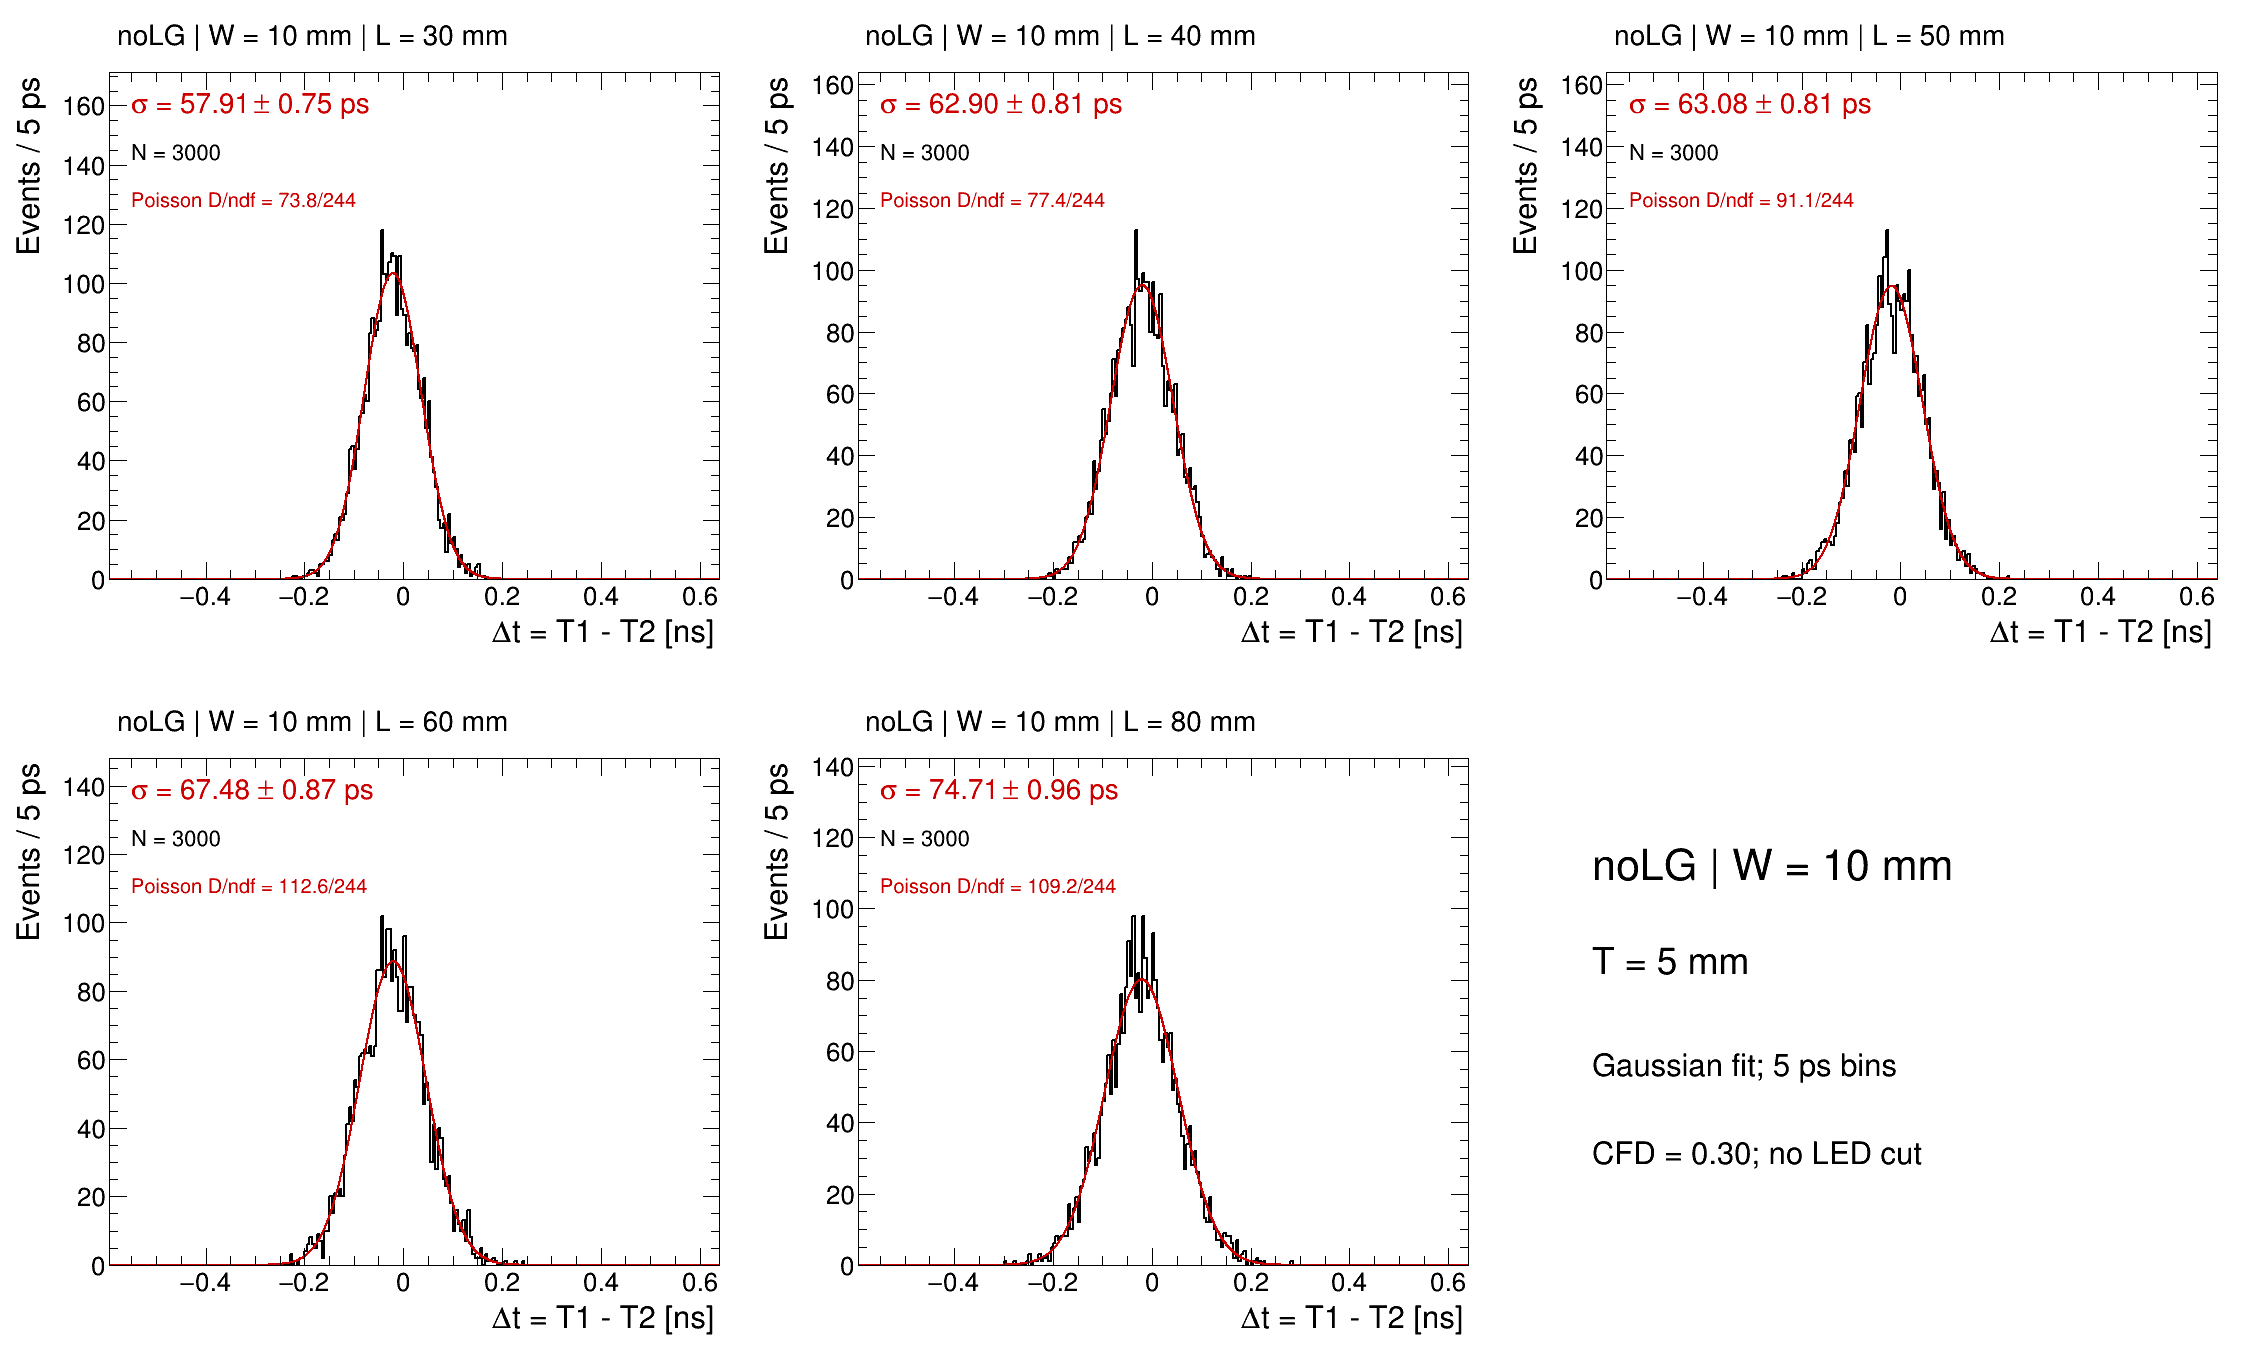
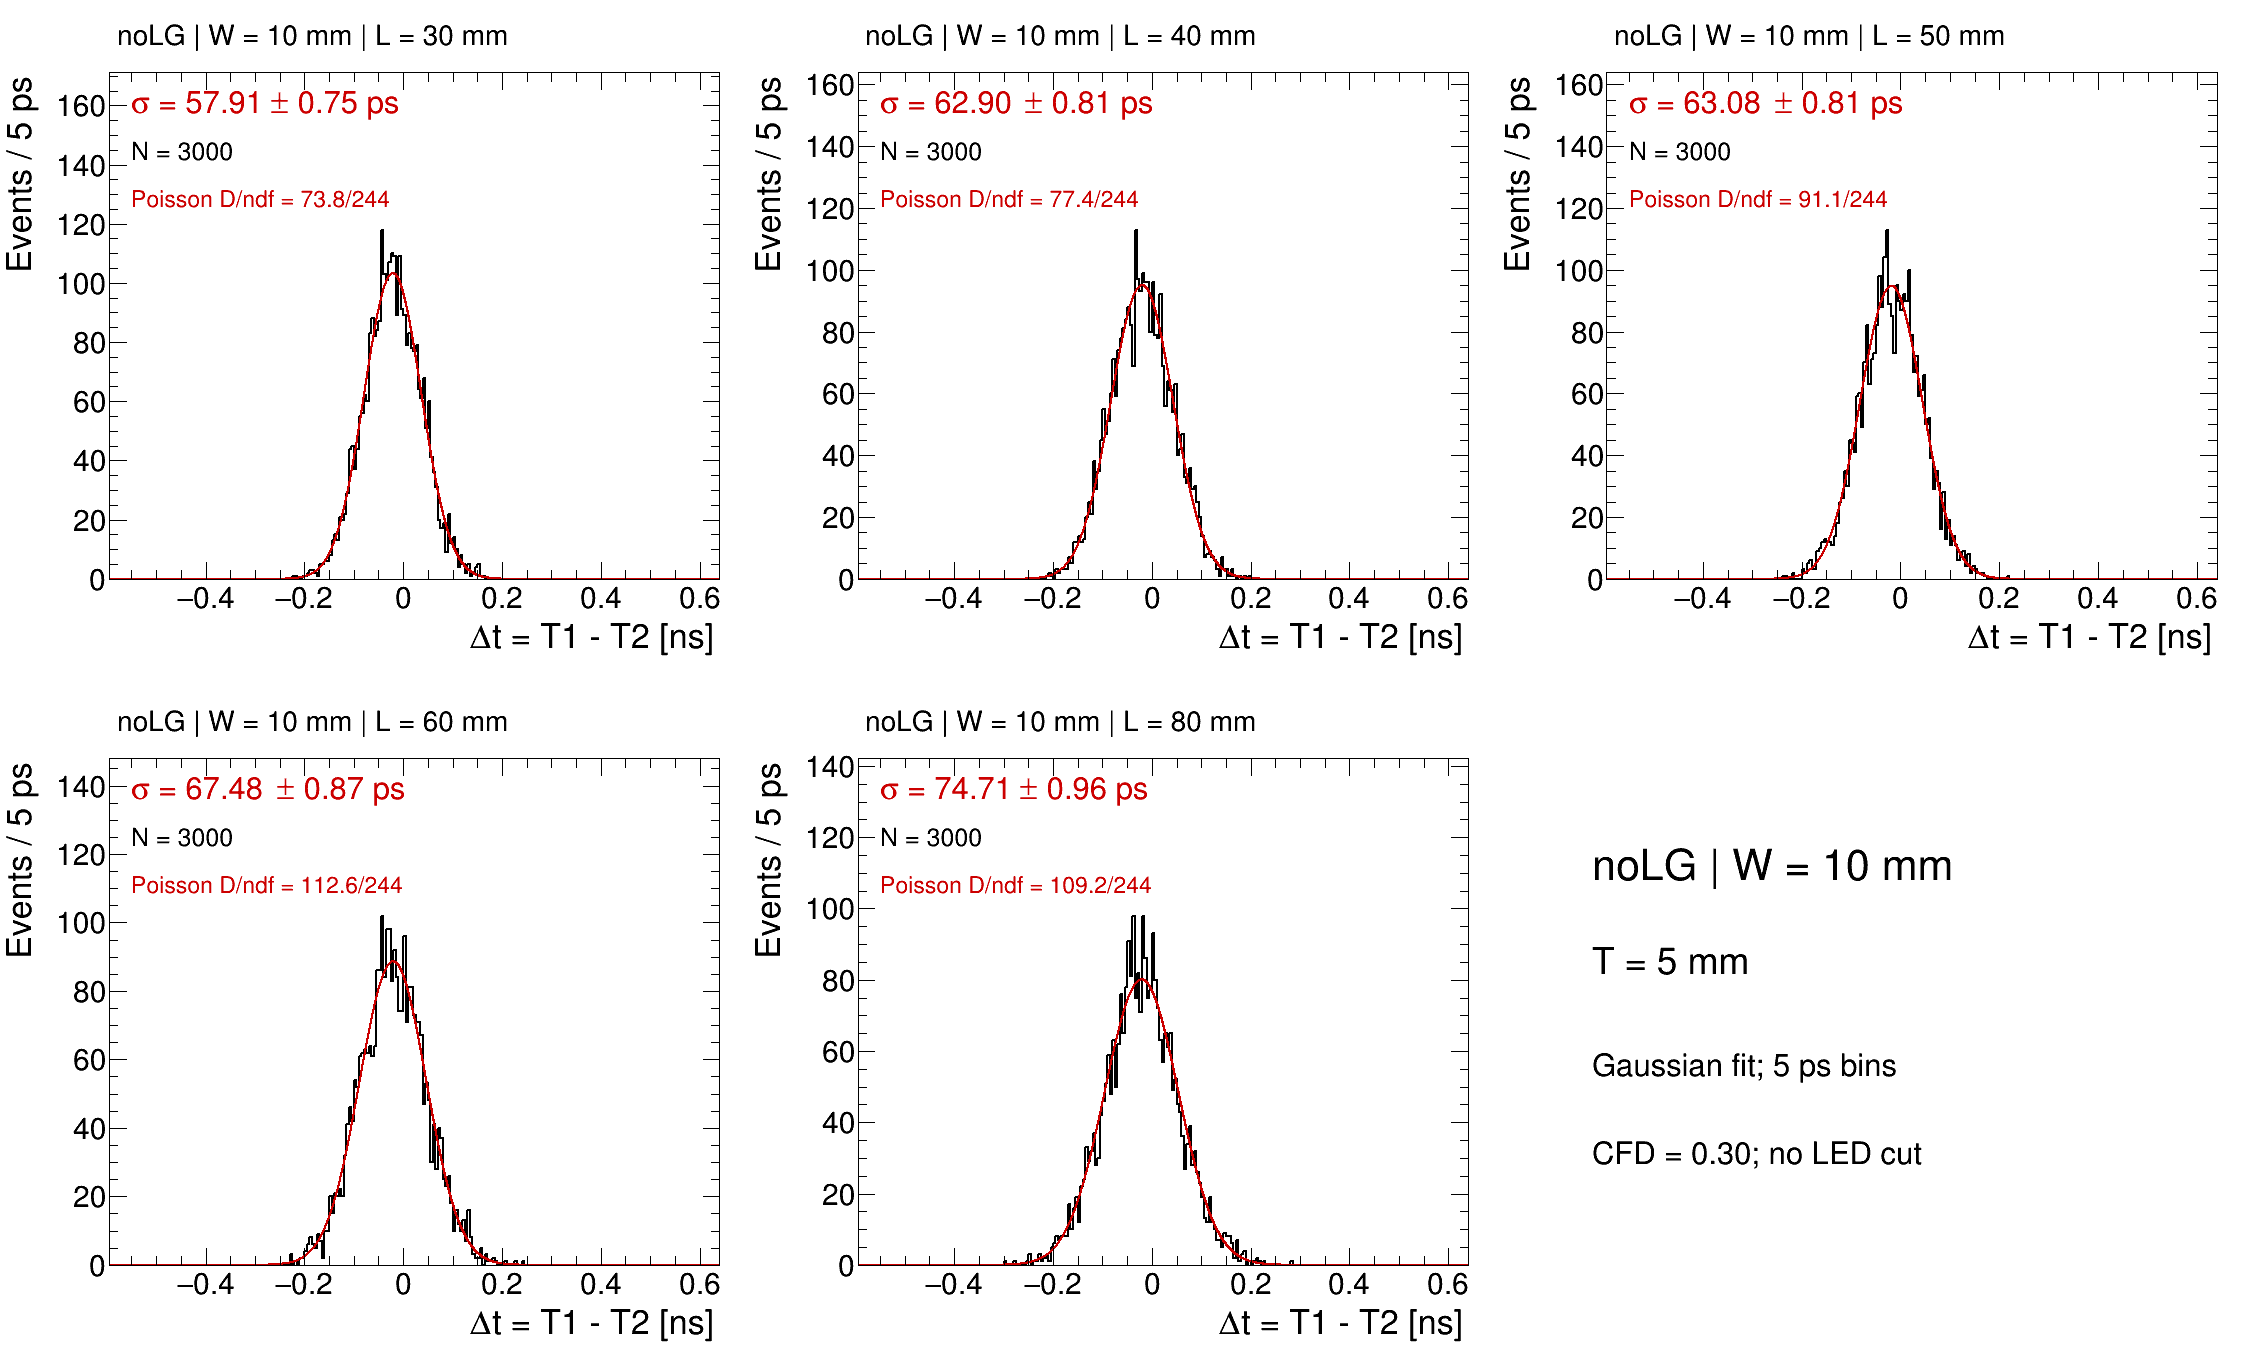
Improve readability of length and thickness scan figures
Enlarge labels and error bars, use shared legends and distinct line styles,
and show photon fractions as percentages. Retain all data and fit settings.

Validation: regenerated 12 PNGs; all 27 fit results, photon statistics and
exception sensitivity exactly unchanged; saved ROOT curves and hashes checked.

diff --git a/analysis/tools/length_thickness_trends.py b/analysis/tools/length_thickness_trends.py
@@ -85,6 +85,10 @@ def plot(out):
     import matplotlib
     matplotlib.use('Agg')
     import matplotlib.pyplot as plt
+    from matplotlib.ticker import PercentFormatter
+    plt.rcParams.update({'font.size':13, 'axes.labelsize':14, 'axes.titlesize':16,
+                         'xtick.labelsize':12, 'ytick.labelsize':12, 'legend.fontsize':12,
+                         'axes.spines.top':False, 'axes.spines.right':False})
     from collections import Counter
     ROOT.gROOT.SetBatch(True)
     ROOT.gStyle.SetOptStat(0)
@@ -181,6 +185,7 @@ def plot(out):
         print('FIT',tag,len(v),round(row['sigma_ps'],3),flush=True)
     groups=[('nolg',10),('lg',10),('lg',40)]
     colors=['#0072B2','#009E73','#D55E00'];markers=['o','s','^']
+    styles=['-','--','-.']
     label=lambda m,w:('noLG' if m=='nolg' else 'LG')+f' | W = {w} mm'
     def scan_rows(axis,mode,width):
         return sorted([r for r in summaries if r['mode']==mode and r['width_mm']==width
@@ -192,7 +197,7 @@ def plot(out):
         unit='L' if axis=='length' else 'T'
         fixed='T = 5 mm' if axis=='length' else 'L = 60 mm'
         ticks=[30,40,50,60,80] if axis=='length' else [2,3,5,7,10]
-        xlabel=f'Scintillator {axis} {unit} [mm]'
+        xlabel=f'Tile {axis} {unit} [mm]'
         for mode,width in groups:
             c=ROOT.TCanvas(f'dt_{axis}_{mode}_w{width}','',2250,1400);keep.append(c);c.Divide(3,2,.003,.004)
             rr=scan_rows(axis,mode,width)
@@ -202,40 +207,45 @@ def plot(out):
                 draw=h.Clone('draw_'+pad.GetName());draw.SetDirectory(0);keep.append(draw)
                 draw.SetLineColor(ROOT.kBlack);draw.SetLineWidth(2);draw.SetMinimum(0);draw.SetMaximum(h.GetMaximum()*1.45)
                 draw.GetXaxis().SetTitle('#Deltat = T1 - T2 [ns]');draw.GetYaxis().SetTitle('Events / 5 ps')
-                for ax in [draw.GetXaxis(),draw.GetYaxis()]:ax.SetLabelSize(.042);ax.SetTitleSize(.05)
+                for ax in [draw.GetXaxis(),draw.GetYaxis()]:ax.SetLabelSize(.048);ax.SetTitleSize(.055)
                 draw.GetYaxis().SetTitleOffset(1.35);draw.Draw('HIST');curve.Draw('L SAME')
                 text(.15,.94,f'{label(mode,width)} | {unit} = {r[axis+"_mm"]} mm',.045)
-                text(.17,.84,f'#sigma = {r["sigma_ps"]:.2f} #pm {r["sigma_error_ps"]:.2f} ps',.045,ROOT.kRed+1)
-                text(.17,.77,f'N = {r["valid_pairs"]}',.036)
-                text(.17,.70,f'Poisson D/ndf = {r["poisson_deviance"]:.1f}/{r["ndf"]}',.032,ROOT.kRed+1)
+                text(.17,.84,f'#sigma = {r["sigma_ps"]:.2f} #pm {r["sigma_error_ps"]:.2f} ps',.050,ROOT.kRed+1)
+                text(.17,.77,f'N = {r["valid_pairs"]}',.040)
+                text(.17,.70,f'Poisson D/ndf = {r["poisson_deviance"]:.1f}/{r["ndf"]}',.037,ROOT.kRed+1)
                 pad.RedrawAxis()
             c.cd(6);text(.12,.72,label(mode,width),.07);text(.12,.58,fixed,.06)
             text(.12,.43,'Gaussian fit; 5 ps bins',.05);text(.12,.30,'CFD = 0.30; no LED cut',.05)
             c.SaveAs(str(plots/f'dt_{axis}_{mode}_w{width}.png'));archive.cd();c.Write()
-        fig,axs=plt.subplots(1,2,figsize=(14,5.5))
-        for (m,w),color,marker in zip(groups,colors,markers):
+        fig,axs=plt.subplots(1,2,figsize=(13,5.8))
+        for (m,w),color,marker,style in zip(groups,colors,markers,styles):
             rr=scan_rows(axis,m,w);xx=[r[axis+'_mm'] for r in rr]
             for ax,key,err in [(axs[0],'sigma_ps','sigma_error_ps'),(axs[1],'detected_mean','detected_sem')]:
-                ax.errorbar(xx,[r[key] for r in rr],yerr=[r[err] for r in rr],color=color,marker=marker,lw=2,ms=7,capsize=4,label=label(m,w))
-        for ax in axs:ax.set_xlabel(xlabel);ax.set_xticks(ticks);ax.grid(alpha=.25);ax.legend(fontsize=10)
-        axs[0].set_ylabel(r'Gaussian fit $\sigma(\Delta t)$ [ps]')
-        axs[1].set_ylabel('Mean detected photons / event (T1 + T2)')
+                ax.errorbar(xx,[r[key] for r in rr],yerr=[r[err] for r in rr],color=color,marker=marker,linestyle=style,lw=2.3,ms=8,capsize=5,capthick=1.6,elinewidth=1.6,label=label(m,w))
+        for ax in axs:ax.set_xlabel(xlabel);ax.set_xticks(ticks);ax.grid(alpha=.22)
+        axs[0].set_ylabel(r'Gaussian $\sigma(\Delta t)$ [ps]')
+        axs[1].set_ylabel('Detected photons / event\n(T1 + T2)')
         axs[0].set_title('Pair timing');axs[1].set_title('Detected photons')
-        fig.suptitle(f'Tile-{axis} dependence | {fixed}',fontsize=17)
-        fig.text(.08,.025,'3000 events / condition | timing: fit SE; photon count: SEM',fontsize=10)
-        fig.tight_layout(rect=[0,.065,1,.95]);fig.savefig(plots/f'sigma_and_detected_vs_{axis}.png',dpi=180);plt.close(fig)
-        fig,axs=plt.subplots(1,2,figsize=(14,5.5))
-        for (m,w),color,marker in zip(groups,colors,markers):
+        fig.suptitle(f'Tile-{axis} dependence | {fixed}',fontsize=19,y=.98)
+        handles,labels=axs[0].get_legend_handles_labels()
+        fig.legend(handles,labels,loc='upper center',bbox_to_anchor=(.5,.91),ncol=3,frameon=False)
+        fig.text(.5,.018,'3000 events / condition  |  σ: fit SE  |  photon count: SEM',fontsize=11,ha='center')
+        fig.tight_layout(rect=[0,.065,1,.84],w_pad=3);fig.savefig(plots/f'sigma_and_detected_vs_{axis}.png',dpi=180);plt.close(fig)
+        fig,axs=plt.subplots(1,2,figsize=(13,5.8))
+        for (m,w),color,marker,style in zip(groups,colors,markers,styles):
             rr=scan_rows(axis,m,w);xx=[r[axis+'_mm'] for r in rr]
             for ax,key,err in [(axs[0],'generated_mean','generated_sem'),(axs[1],'collection_fraction','collection_fraction_sem')]:
-                ax.errorbar(xx,[r[key] for r in rr],yerr=[r[err] for r in rr],color=color,marker=marker,lw=2,ms=7,capsize=4,label=label(m,w))
-        for ax in axs:ax.set_xlabel(xlabel);ax.set_xticks(ticks);ax.grid(alpha=.25);ax.legend(fontsize=10)
-        axs[0].set_ylabel('Mean generated optical photons / event')
-        axs[1].set_ylabel('Detected / generated photons (T1 + T2)')
-        fig.suptitle(f'Photon yield and collection | {fixed}',fontsize=17)
-        fig.tight_layout(rect=[0,0,1,.95]);fig.savefig(plots/f'photon_yield_vs_{axis}.png',dpi=180);plt.close(fig)
+                ax.errorbar(xx,[r[key] for r in rr],yerr=[r[err] for r in rr],color=color,marker=marker,linestyle=style,lw=2.3,ms=8,capsize=5,capthick=1.6,elinewidth=1.6,label=label(m,w))
+        for ax in axs:ax.set_xlabel(xlabel);ax.set_xticks(ticks);ax.grid(alpha=.22)
+        axs[0].set_ylabel('Generated photons / event')
+        axs[1].set_ylabel('Detected / generated photons')
+        axs[1].yaxis.set_major_formatter(PercentFormatter(1))
+        fig.suptitle(f'Photon yield and collection | {fixed}',fontsize=19,y=.98)
+        handles,labels=axs[0].get_legend_handles_labels()
+        fig.legend(handles,labels,loc='upper center',bbox_to_anchor=(.5,.91),ncol=3,frameon=False)
+        fig.tight_layout(rect=[0,0,1,.84],w_pad=3);fig.savefig(plots/f'photon_yield_vs_{axis}.png',dpi=180);plt.close(fig)
         categories=[('detected','Detected','#2ca02c'),('qe_reject','QE reject','#98df8a'),('absorb_scint','Scint. absorption','#ff7f0e'),('absorb_lg','LG bulk','#1f77b4'),('absorb_lg_surface','LG surface','#17becf'),('absorb_glass','Glass','#aec7e8'),('absorb_other_surface','Other surface','#d62728'),('absorb_other','Other bulk','#8c564b'),('no_rindex','NoRINDEX','#000000')]
-        fig,axs=plt.subplots(1,3,figsize=(16,5.5),sharey=True)
+        fig,axs=plt.subplots(1,3,figsize=(15,7),sharey=True)
         for ax,(m,w) in zip(axs,groups):
             rr=scan_rows(axis,m,w);bottom=np.zeros(len(rr));indices=np.arange(len(rr))
             for key,lab,color in categories:
@@ -243,10 +253,11 @@ def plot(out):
                 ax.bar(indices,vv,bottom=bottom,color=color,label=lab);bottom+=vv
             assert np.allclose(bottom,1,rtol=0,atol=1e-12),'Unplotted fate category'
             ax.set_xticks(indices,[r[axis+'_mm'] for r in rr]);ax.set_xlabel(xlabel);ax.set_title(label(m,w));ax.set_ylim(0,1.02)
-        axs[0].set_ylabel('Fraction of generated optical photons')
-        handles,labels=axs[0].get_legend_handles_labels();fig.legend(handles,labels,loc='lower center',bbox_to_anchor=(.5,.055),ncol=5,fontsize=9)
-        fig.text(.5,.012,'Other surface includes Al/tape outside the LG-surface category; other bulk is the remaining bulk absorption.',ha='center',fontsize=9)
-        fig.suptitle(f'Optical photon fates | {fixed}',fontsize=17);fig.tight_layout(rect=[0,.19,1,.95]);fig.savefig(plots/f'fate_fractions_vs_{axis}.png',dpi=180);plt.close(fig)
+        axs[0].set_ylabel('Fraction of generated photons')
+        axs[0].yaxis.set_major_formatter(PercentFormatter(1))
+        handles,labels=axs[0].get_legend_handles_labels();fig.legend(handles,labels,loc='lower center',bbox_to_anchor=(.5,.065),ncol=3,fontsize=12,frameon=False)
+        fig.text(.5,.012,'Other surface: Al/tape outside LG surface. Other bulk: remaining bulk absorption.',ha='center',fontsize=10.5)
+        fig.suptitle(f'Optical photon fates | {fixed}',fontsize=19);fig.tight_layout(rect=[0,.25,1,.94]);fig.savefig(plots/f'fate_fractions_vs_{axis}.png',dpi=180);plt.close(fig)
     archive.Close()
     check=ROOT.TFile.Open(str(data/'dt_fits.root'))
     for r in summaries:
